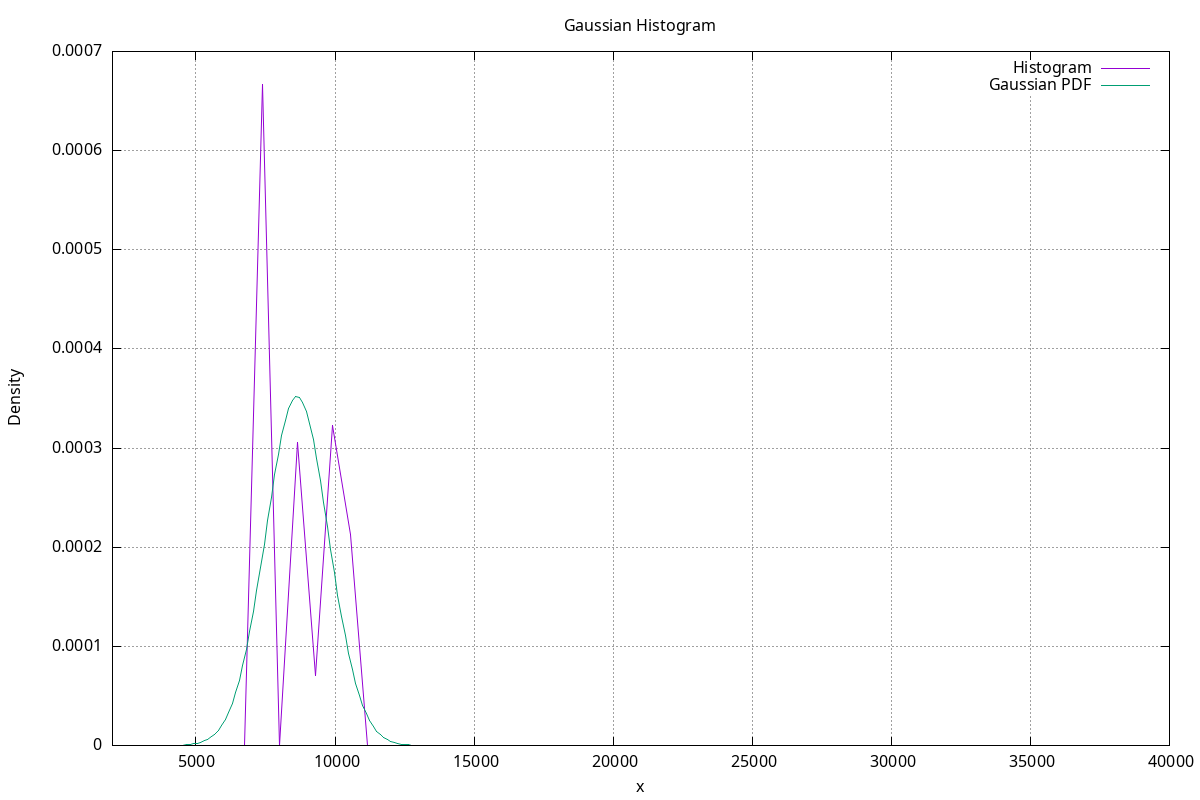
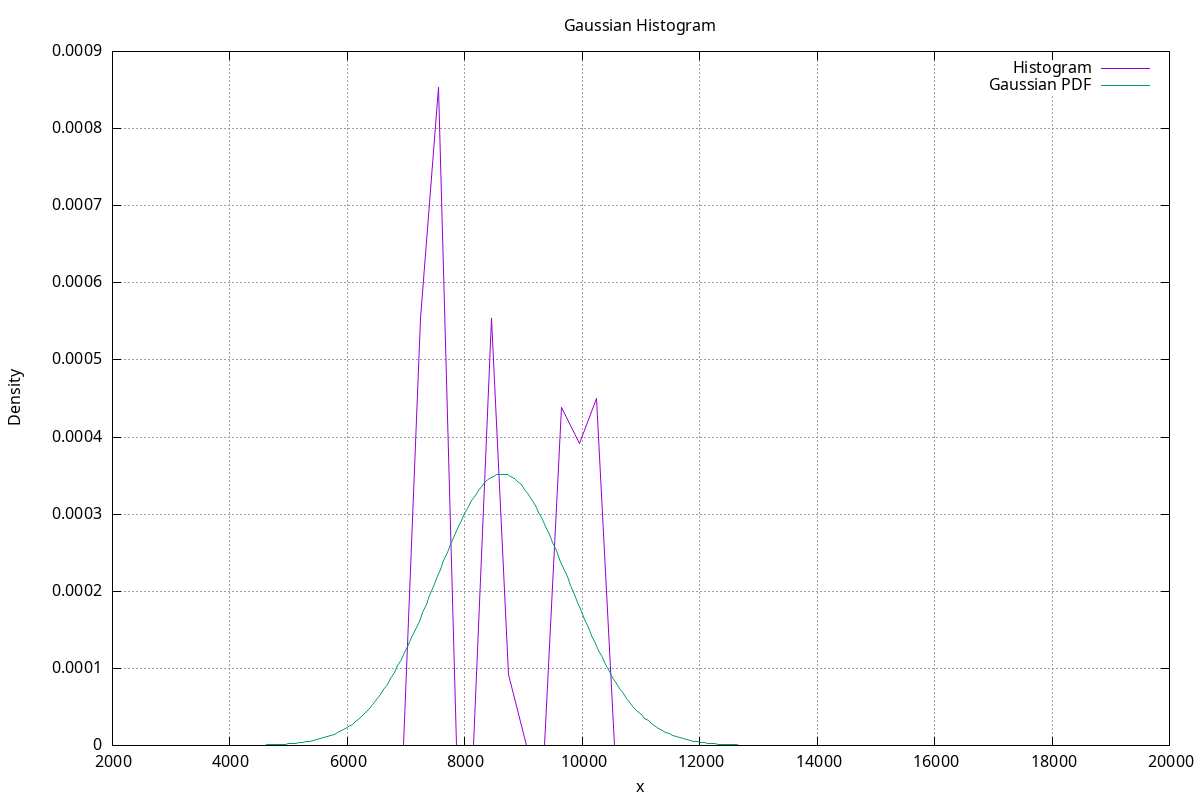
Coverage

diff --git a/MotionSolver.php b/MotionSolver.php
@@ -17,65 +17,78 @@ class MotionSolver
         $this->m = $mass;
     }
 
-    public function step(float $dt, $force, float $t)
+    // Semi-implicit Euler (symplectic)
+    public function step(float $dt, float $force)
     {
-        if (is_callable($force)) {
-            $F = $force($t, $this->x, $this->v);
-        } else {
-            $F = $force;
-        }
-
-        // acceleration
-        $a = $F / $this->m;
-
-        // Euler integration
+        $a = $force / $this->m;
         $this->v += $a * $dt;
         $this->x += $this->v * $dt;
     }
 }
 
 // -----------------------------
-// Simulation (gravity)
+// Parameters
 // -----------------------------
 $mass = 1.0;
-$g = 9.81;
+$g    = 9.81;
 
 $sim = new MotionSolver(100, 0, $mass);
-$dt = 0.01;
-$t  = 0;
+$dt  = 0.0001;
+$t   = 0;
 
-// Create GnuPlot instance
+// -----------------------------
+// GnuPlot
+// -----------------------------
 $gp = new GnuPlot();
 
-// Curve 0: position
+// Curve titles
 $gp->setTitle(0, "Position (m)");
-
-// Curve 1: velocity
 $gp->setTitle(1, "Velocity (m/s)");
 
-while ($t <= 5) {
-    // Add points using the low-level API
-    $gp->push($t, $sim->x, 0); // curve 0 -> x(t)
-    $gp->push($t, $sim->v, 1); // curve 1 -> v(t)
+// Initial point
+$gp->push($t, $sim->x, 0);
+$gp->push($t, $sim->v, 1);
 
-    // Step simulation
-    $sim->step($dt, -$mass * $g, $t);
+// -----------------------------
+// Simulation loop (until ground hit)
+// -----------------------------
+while (true) {
+    $xPrev = $sim->x;
+    $vPrev = $sim->v;
+    $tPrev = $t;
 
+    $sim->step($dt, -$mass * $g);
     $t += $dt;
+
+    // Ground impact interpolation
+    if ($sim->x <= 0.0) {
+        $alpha = $xPrev / ($xPrev - $sim->x);
+        $tHit  = $tPrev + $alpha * $dt;
+        $vHit  = $vPrev - $g * ($alpha * $dt);
+
+        $gp->push($tHit, 0.0, 0);
+        $gp->push($tHit, $vHit, 1);
+        break;
+    }
+
+    $gp->push($t, $sim->x, 0);
+    $gp->push($t, $sim->v, 1);
 }
 
+// -----------------------------
 // Graph configuration
-$gp->setGraphTitle("Motion Under Gravity");
+// -----------------------------
+$gp->setGraphTitle("Free Fall Until Ground Impact");
 $gp->setXLabel("Time (s)");
 $gp->setYLabel("Value");
-$gp->setWidth(800);
-$gp->setHeight(600);
+$gp->setWidth(2000);
+$gp->setHeight(800);
 
-// Optional axis ranges
-// $gp->setXRange(0, 5);
-// $gp->setYRange(-60, 100);
+// Optional axis limits
+// $gp->setXRange(0, $t);
+// $gp->setYRange(-50, 110);
 
-// Save to PNG
+// Save PNG
 $gp->writePng("motion.png");
 
 echo "Saved graph to motion.png\n";

diff --git a/src/Statistics/Statistics.php b/src/Statistics/Statistics.php
@@ -7,11 +7,13 @@ final class Statistics
     private int $n = 0;
     private float $mean = 0.0;
     private float $M2 = 0.0;
+    private array $data = [];
 
     public function ingest(iterable $data): void
     {
         foreach ($data as $x) {
             $x = (float)$x;
+            $this->data[] = $x;
             $this->n++;
 
             $delta = $x - $this->mean;
@@ -34,4 +36,25 @@ final class Statistics
     {
         return sqrt($this->variance());
     }
+    public function coverage(float $k): float
+    {
+    $mean = $this->mean();
+    $std  = $this->stdDev();
+
+    $count = 0;
+    $total = count($this->data);
+
+    foreach ($this->data as $x) {
+        if (abs($x - $mean) <= $k * $std) {
+            $count++;
+        }
+    }
+
+    return ($count / $total) * 100.0;
+}
+
+public function coefficientOfVariation(): float
+{
+    return ($this->stdDev() / $this->mean()) * 100.0;
+}
 }

diff --git a/main.php b/main.php
@@ -36,9 +36,6 @@ $tempA = new ScalarFieldSource(
 $stats = new Statistics();
 $stats->ingest($tempA);
 
-echo "Mean temperature: {$stats->mean()} K\n";
-echo "Std dev: {$stats->stdDev()} K\n";
-
 $gaussian = new NormalDistribution(
     $stats->mean(),
     $stats->stdDev()
@@ -49,4 +46,11 @@ $plotter = new GnuPlotBellCurvePlotter(
     bins: 60
 );
 
-$plotter->plot($tempA, $gaussian, 2000, 40000);
+$plotter->plot($tempA, $gaussian, 2000, 20000);
+echo "Mean temperature: {$stats->mean()} K\n";
+echo "Std dev: {$stats->stdDev()} K\n";
+echo "Coverage ±1σ : " . round($stats->coverage(1), 2) . "%\n";
+echo "Coverage ±2σ : " . round($stats->coverage(2), 2) . "%\n";
+echo "Coverage ±3σ : " . round($stats->coverage(3), 2) . "%\n";
+
+echo "Coefficient of Variation: " . round($stats->coefficientOfVariation(), 2) . "%\n";
